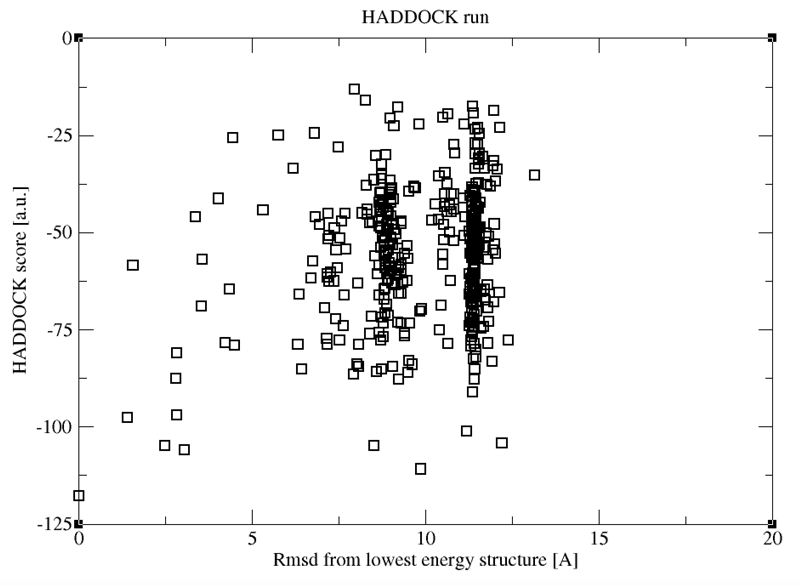
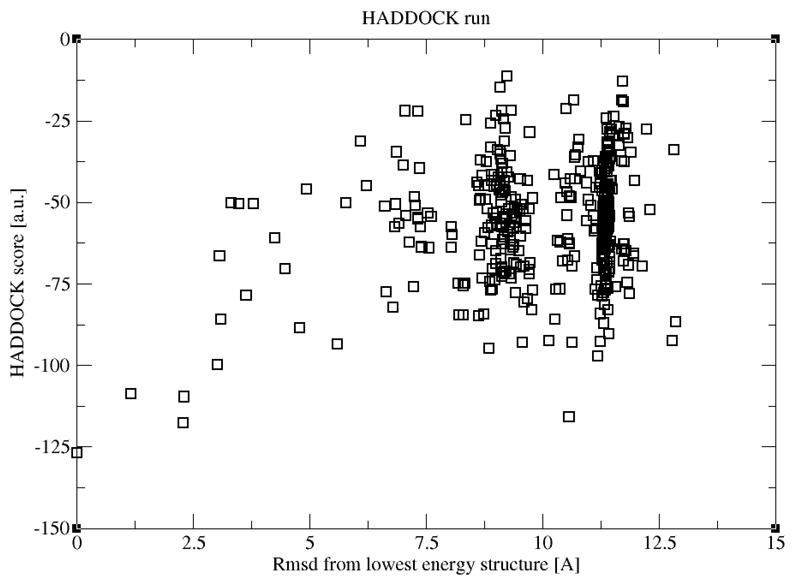
Added preview of run with 2xlinks

diff --git a/education/HADDOCK-local-tutorial/index.md b/education/HADDOCK-local-tutorial/index.md
@@ -1068,35 +1068,35 @@ decide on the best solution.
 In each directory containing docked model you will find a file called `file.list` which contains the sorted PDB models with their corresponding HADDOCK score, e.g.:
 
 <pre style="background-color:#DAE4E7">
-"PREVIT:antibody-antigen_1w.pdb"  { -91.3741 }
-"PREVIT:antibody-antigen_3w.pdb"  { -89.63574 }
-"PREVIT:antibody-antigen_12w.pdb"  { -79.9501 }
-"PREVIT:antibody-antigen_17w.pdb"  { -79.1546 }
-"PREVIT:antibody-antigen_2w.pdb"  { -73.35884 }
+"PREVIT:antibody-antigen_203w.pdb"  { -126.88945 }
+"PREVIT:antibody-antigen_78w.pdb"  { -117.76065 }
+"PREVIT:antibody-antigen_26w.pdb"  { -115.902035 }
+"PREVIT:antibody-antigen_227w.pdb"  { -109.66402 }
+"PREVIT:antibody-antigen_100w.pdb"  { -108.65817 }
 ...
 </pre>
 
 Each PDB model contains a header section with the various energy terms, e.g.:
 
 <pre style="background-color:#DAE4E7">
-REMARK FILENAME="antibody-antigen_1w.pdb0"
+REMARK FILENAME="antibody-antigen_203w.pdb0"
 REMARK ===============================================================
 REMARK HADDOCK run for antibody-antigen
-REMARK initial structure: antibody-antigen_1.pdb
+REMARK initial structure: antibody-antigen_203.pdb
 REMARK final NOE weights: unambig 50 amb: 50
 REMARK ===============================================================
 REMARK            total,bonds,angles,improper,dihe,vdw,elec,air,cdih,coup,rdcs,vean,dani,xpcs,rg
-REMARK energies: 102.321, 0, 0, 0, 0, -74.9325, -169.12, 346.374, 0, 0, 0, 0, 0, 0, 0
+REMARK energies: -178.455, 0, 0, 0, 0, -62.989, -534.486, 419.02, 0, 0, 0, 0, 0, 0, 0
 REMARK ===============================================================
 REMARK            bonds,angles,impropers,dihe,air,cdih,coup,rdcs,vean,dani,xpcs
-REMARK rms-dev.: 0,0,0,0,1.23139,0,0, 0, 0, 0, 0
+REMARK rms-dev.: 0,0,0,0,3.97561,0,0, 0, 0, 0, 0
 REMARK ===============================================================
 REMARK               air,cdih,coup,rdcs,vean,dani,xpcs
 REMARK               >0.3,>5,>1,>0,>5,>0.2,>0.2
-REMARK violations.: 10, 0, 0, 0, 0, 0, 0
+REMARK violations.: 8, 0, 0, 0, 0, 0, 0
 REMARK ===============================================================
 REMARK                        CVpartition#,violations,rms
-REMARK AIRs cross-validation: 2, 28, 1.81811
+REMARK AIRs cross-validation: 2, 19, 5.64725
 REMARK ===============================================================
 REMARK NCS energy: 0
 REMARK ===============================================================
@@ -1106,23 +1106,23 @@ REMARK Membrane restraining energy: 0
 REMARK ===============================================================
 REMARK Local cross-correlation:  0.0000
 REMARK ===============================================================
-REMARK Desolvation energy: -17.255
-REMARK Internal energy free molecules: -22849.8
-REMARK Internal energy complex: -22121.3
-REMARK Binding energy: 467.21
+REMARK Desolvation energy: 1.09475
+REMARK Internal energy free molecules: -23198.4
+REMARK Internal energy complex: -22506
+REMARK Binding energy: 96.0208
 REMARK ===============================================================
-REMARK buried surface area: 2068.14
+REMARK buried surface area: 2079.75
 REMARK ===============================================================
 REMARK water - chain_1: 0 0 0
 REMARK water - chain_2: 0 0 0
 REMARK ===============================================================
 REMARK water - water: 0 0 0
 REMARK ===============================================================
-REMARK DATE:25-Apr-2018  11:28:44       created by user: abonvin
+REMARK DATE:26-Apr-2018  13:44:49       created by user: abonvin
 REMARK VERSION:1.3U
-ATOM      1  N   GLN     1       4.527   0.579 -14.142  1.00 10.00      A
-ATOM      2  HN  GLN     1       3.641   0.595 -14.566  1.00 10.00      A
-ATOM      3  CA  GLN     1       5.589  -0.216 -14.745  1.00 10.00      A
+ATOM      1  N   GLN     1      -1.906  -0.593 -17.682  1.00 10.00      A
+ATOM      2  HN  GLN     1      -2.433  -1.413 -17.828  1.00 10.00      A
+ATOM      3  CA  GLN     1      -1.990   0.481 -18.666  1.00 10.00      A
 ...
 </pre>
 
@@ -1213,21 +1213,25 @@ The minimum cluster size is set to 4, but in case the clustering fails, HADDOCK 
 The clustering output `cluster.out` can be found in the `analysis` directories, both in the `it1` and `water` directories. Unzip the file if necessary. For this particular example, its content should look like:
 
 <pre style="background-color:#DAE4E7">
-Cluster 1 -> 201 11 18 26 29 35 39 44 51 54 55 56 62 65 71 74 77 82 83 84 86 87 90 91 92 93 94 96 99 103 104 105 107 108 113 114 115 116 122 123 127 131 132 133 136 137 139 143 145 146 150 153 155 163 164 168 169 172 175 176 177 178 179 180 182 183 184 185 186 187 188 192 195 199 204 205 207 208 214 215 217 219 220 221 222 226 229 231 235 236 241 242 243 244 246 249 250 251 255 257 259 262 265 271 273 278 279 281 287 295 296 299 302 306 308 310 312 315 320 326 328 333 338 340 342 346 352 353 366 367 370 371 375 379 381 386 387 395 398
-Cluster 2 -> 301 4 12 14 15 17 20 21 22 23 25 41 45 46 47 48 58 59 60 61 67 69 70 72 81 89 95 100 101 109 112 118 119 121 126 129 130 138 142 148 152 154 156 157 159 161 162 165 173 174 181 190 193 194 197 202 203 209 210 212 216 224 230 232 238 239 245 252 253 254 258 264 268 269 275 286 289 293 298 314 317 319 321 334 373 374 389 392
-Cluster 3 -> 380 24 106 160 189 213 223 248 266 294 297 305 318 330 332 351 361 364 377 384 393 394
-Cluster 4 -> 356 151 211 282 288 300 304 329 336 337 359 368
-Cluster 5 -> 357 144 166 274 307 311 322 323 343 344 355
-Cluster 6 -> 256 33 76 98 125 134 135 147 237
-Cluster 7 -> 369 53 63 102 191 196 206 372
-Cluster 8 -> 388 50 247 350 354 362 396
-Cluster 9 -> 28 1 3 5 8 9 158
-Cluster 10 -> 120 32 42 141 261 270
-Cluster 11 -> 80 10 36 52 128 280
-Cluster 12 -> 227 57 66 97 140
-Cluster 13 -> 349 16 49 272
-Cluster 14 -> 348 85 110 267
-Cluster 15 -> 117 37 78 88
+Cluster 1 -> 349 15 17 26 29 32 37 41 46 49 50 52 54 68 69 72 73 74 78 83 88 91 92 94 98 100 101 105 107 110 117 122 124 125 126 128 135 137 139 1
+41 145 146 152 153 154 155 157 158 159 161 163 164 167 169 177 182 183 184 185 189 192 193 196 197 200 205 210 211 214 217 219 220 225 227 230 234
+ 238 247 250 252 253 254 255 256 257 258 260 273 275 277 278 283 284 285 286 290 296 297 298 300 306 309 319 321 323 326 327 330 331 333 335 337 3
+39 344 345 348 355 357 358 359 364 366 367 375 377 378 387 388
+Cluster 2 -> 320 8 11 21 22 23 24 27 30 31 36 39 40 51 53 55 59 60 61 62 64 65 66 67 70 75 80 81 85 87 89 90 93 99 111 112 114 119 120 127 131 132
+ 140 142 144 149 150 160 165 168 170 171 172 179 180 181 186 191 198 199 202 206 207 212 218 226 229 231 232 235 237 243 251 272 276 280 289 291 3
+04 313 314 318 322 334 343 352 356 362 392
+Cluster 3 -> 242 63 82 84 97 116 130 134 162 190 216 267 270 301 312 338 346 347 351 363 380 397
+Cluster 4 -> 368 195 203 262 268 299 311 329 350 361 376 382 384 386 389
+Cluster 5 -> 294 71 77 178 224 259 279 293 295 305 308 317
+Cluster 6 -> 187 28 38 118 121 174 213 240 264 328 342
+Cluster 7 -> 310 7 25 79 96 102 138 147 188
+Cluster 8 -> 353 47 95 104 109 113 115 340
+Cluster 9 -> 315 57 263 303 336
+Cluster 10 -> 266 14 20 44 143
+Cluster 11 -> 244 48 136 201 204
+Cluster 12 -> 194 236 302 324 325
+Cluster 13 -> 173 34 58 108
+Cluster 14 -> 5 1 2 4
 </pre>
 
 The clusters are sorted and numbered in order of their size. The first number after the arrow corresponds to the cluster center. The number themselves correspond to the ranking of the models in the `it1` or `water` directories. For example, model 15 in this list corresponds to the 15th ranked model in the `water` directory, corresponding to `antibody-antigen_138w.pdb` (which can be found in `file.nam`). The PDB files present in the `analysis` directory have however been renumbered according to their rank.
@@ -1242,13 +1246,18 @@ This generates a variety of data files, the most interesting one being `clusters
 
 <pre style="background-color:#DAE4E7">
 #Cluster haddock-score sd rmsd sd rmsd-Emin sd Nstruc Einter sd Enb sd Evdw+0.1Eelec sd Evdw sd Eelec sd Eair sd Ecdih sd Ecoup sd Esani sd Evean sd Edani sd #AIRviol sd #dihedviol sd #Coupviol sd #Saniviol sd #Veanviol sd #Daniviol sd BSA sd #dH sd #Edesolv sd
-file.nam_clust9 -106.537 7.163 1.725 1.157 1.725 1.157 7 -71.32 25.31 -516.21 43.66 -106.15 11.16 -60.59 9.24 -455.62 39.86 444.89 53.88 0.00 0.00 0.00 0.00 0.00 0.00 0.00 0.00 0.000 0.000 8.75 0.43 0.00 0.00 0.00 0.00 0.00 0.00 0.00 0.00 0.000 0.000 1991.763 106.862 0.000 0.000 0.690 4.566
-file.nam_clust2 -91.262 7.903 1.965 1.353 8.784 0.619 88 -16.14 80.97 -437.63 36.52 -98.98 5.12 -61.35 8.35 -376.28 43.45 421.48 65.71 0.00 0.00 0.00 0.00 0.00 0.00 0.00 0.00 0.000 0.000 9.25 1.92 0.00 0.00 0.00 0.00 0.00 0.00 0.00 0.00 0.000 0.000 1845.930 158.949 0.000 0.000 3.195 3.249
-file.nam_clust1 -83.864 2.881 0.972 0.568 11.403 0.024 139 -60.20 56.12 -441.44 51.61 -86.02 5.39 -46.53 5.51 -394.91 54.23 381.24 75.49 0.00 0.00 0.00 0.00 0.00 0.00 0.00 0.00 0.000 0.000 9.25 0.83 0.00 0.00 0.00 0.00 0.00 0.00 0.00 0.00 0.000 0.000 1615.718 27.902 0.000 0.000 3.524 1.050
+#Cluster haddock-score sd rmsd sd rmsd-Emin sd Nstruc Einter sd Enb sd Evdw+0.1Eelec sd Evdw sd Eelec sd Eair sd Ecdih sd Ecoup sd Esani sd Evean
+sd Edani sd #AIRviol sd #dihedviol sd #Coupviol sd #Saniviol sd #Veanviol sd #Daniviol sd BSA sd #dH sd #Edesolv sd
+file.nam_clust14 -115.743 7.339 1.433 0.946 1.433 0.946 4 -110.79 70.50 -567.22 23.43 -114.59 2.56 -64.30 4.37 -502.92 26.99 456.43 49.82 0.00 0.0
+0 0.00 0.00 0.00 0.00 0.00 0.00 0.000 0.000 9.00 0.71 0.00 0.00 0.00 0.00 0.00 0.00 0.00 0.00 0.000 0.000 2021.175 41.803 0.000 0.000 3.495 1.749
+file.nam_clust2 -89.292 4.620 1.482 1.014 8.832 0.460 89 -32.63 47.83 -417.01 57.40 -94.60 2.26 -58.78 6.26 -358.23 63.22 384.38 26.04 0.00 0.00 0
+.00 0.00 0.00 0.00 0.00 0.00 0.000 0.000 8.25 0.83 0.00 0.00 0.00 0.00 0.00 0.00 0.00 0.00 0.000 0.000 1783.680 115.230 0.000 0.000 2.697 3.510
+file.nam_clust1 -85.455 3.444 1.035 0.640 11.362 0.049 128 -47.75 63.27 -463.55 24.95 -91.90 2.15 -50.60 2.81 -412.95 26.82 415.81 77.45 0.00 0.00
+ 0.00 0.00 0.00 0.00 0.00 0.00 0.000 0.000 9.75 1.48 0.00 0.00 0.00 0.00 0.00 0.00 0.00 0.00 0.000 0.000 1665.472 51.602 0.000 0.000 6.159 2.172
 ...
 </pre>
 
-The first row indicates the various terms in the file. In this example we can see that the best cluster according to the HADDOCK score is `cluster 9` which has 7 members.
+The first row indicates the various terms in the file. In this example we can see that the best cluster according to the HADDOCK score is `cluster 14` which has only 4 members.
 The RMSD from the best scoring model (`rmsd-Emin`) indicates that this cluster contains it. The first RMSD value reported corresponds to the average pairwise RMSD within the cluster.
 
 
@@ -1299,13 +1308,13 @@ For details about violations analysis, please refer to the [online manual](softw
 ### Comparison with the crystal structure of this antibody-antigen complex
 
 The crystal structure of the complex we just modelled is available from the PDB database (PDB ID `4G6M`). 
-Let's consider the top model of the top three clusters (#9, #2 and #1) and compare their structure with the crystal structure of this complex.
+Let's consider the top model of the top three clusters (#14, #2 and #1) and compare their structure with the crystal structure of this complex.
 We will use for that models from the analysis directory since those do contain a chainID which makes the comparison easier 
 (HADDOCK/CNS internally uses the segID to identify molecules). Using `cluster.out` identify the model number 
 which corresponds to the best scoring model for each of those three clusters and load these in PyMol with:
 
 <a class="prompt prompt-cmd">
-  pymol antibody-antigenfit_1.pdb antibody-antigenfit_4.pdb antibody-antigenfit_11.pdb
+  pymol antibody-antigenfit_1.pdb antibody-antigenfit_8.pdb antibody-antigenfit_15.pdb
 </a>
 
 <a class="prompt prompt-pymol">
@@ -1333,8 +1342,8 @@ Now align all models onto the crystal reference using the antibody as reference 
 <a class="prompt prompt-pymol">
 select 4g6m and chain H+L<br>
 align antibody-antigenfit_1, sele<br>
-align antibody-antigenfit_4, sele<br>
-align antibody-antigenfit_11, sele<br>
+align antibody-antigenfit_8, sele<br>
+align antibody-antigenfit_15, sele<br>
 </a>
 
 <a class="prompt prompt-question">
@@ -1353,7 +1362,15 @@ Does it actually correspond to the best scored cluster representative?
 You have now completed this tutorial! But if you are curious about the impact of adding a second cross-link restraint on the docking results, 
 consider repeating the analysis for another run provided with the data you downloaded (`antibody-antigen-run-2xl`).
 
-
+<details style="background-color:#DAE4E7"><summary><b>See a preview of the results:</b></summary><br>
+The following plot shows the distribution of HADDOCK scores vs RMSD from the top ranked model for a run using two cross-link restraints.
+Compared to the run we just analysed, the distribution of points is quite different with a much larger population around the best model.
+This of course does not mean that that model is the correct one per se. Up to you to figure it out...
+<figure align="center">
+<img src="/education/HADDOCK-local-tutorial/run-2xl-haddock-vs-rmsd.png">
+</figure>
+</details>
+<br>
 If you have any questions or suggestions, feel free to contact us via email, or post your question to 
 our [HADDOCK forum](http://ask.bioexcel.eu/c/haddock){:target="_blank"} hosted by the 
 [<img width="70" src="/images/Bioexcel_logo.png">](http://bioexcel.eu){:target="_blank"} Center of Excellence for Computational Biomolecular Research.
